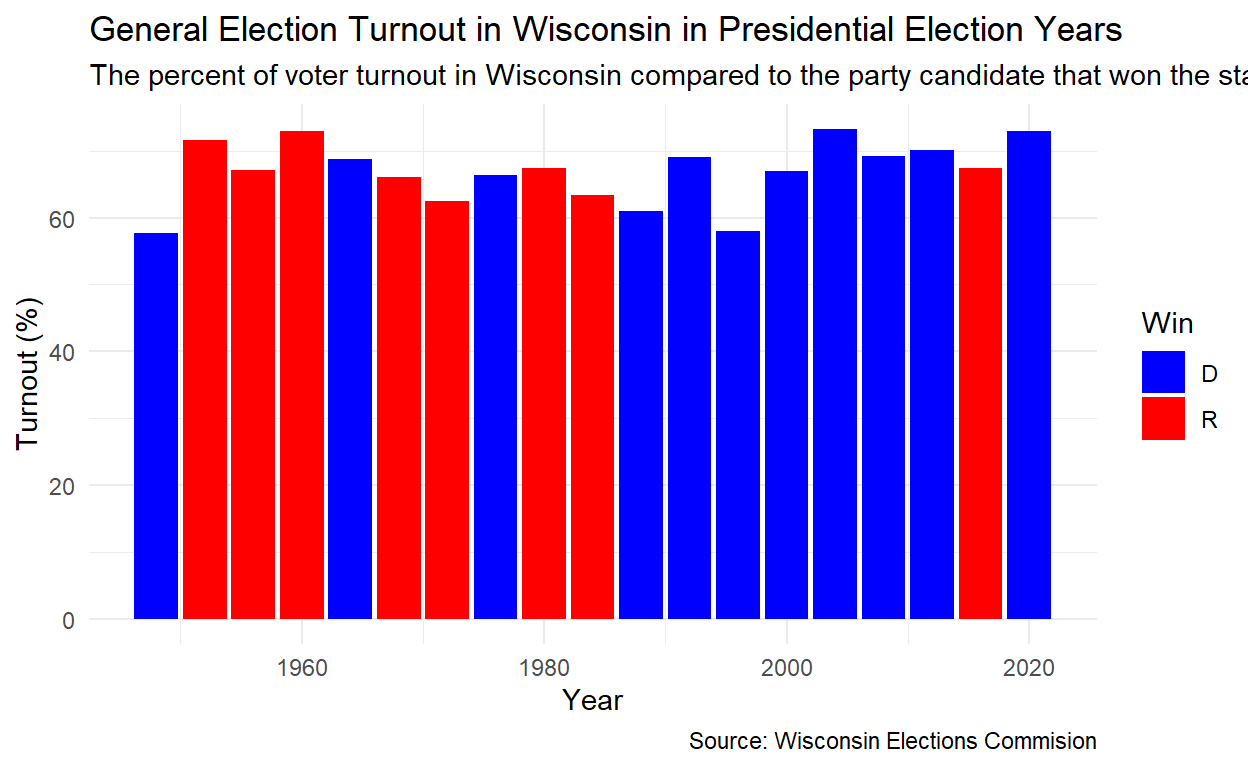
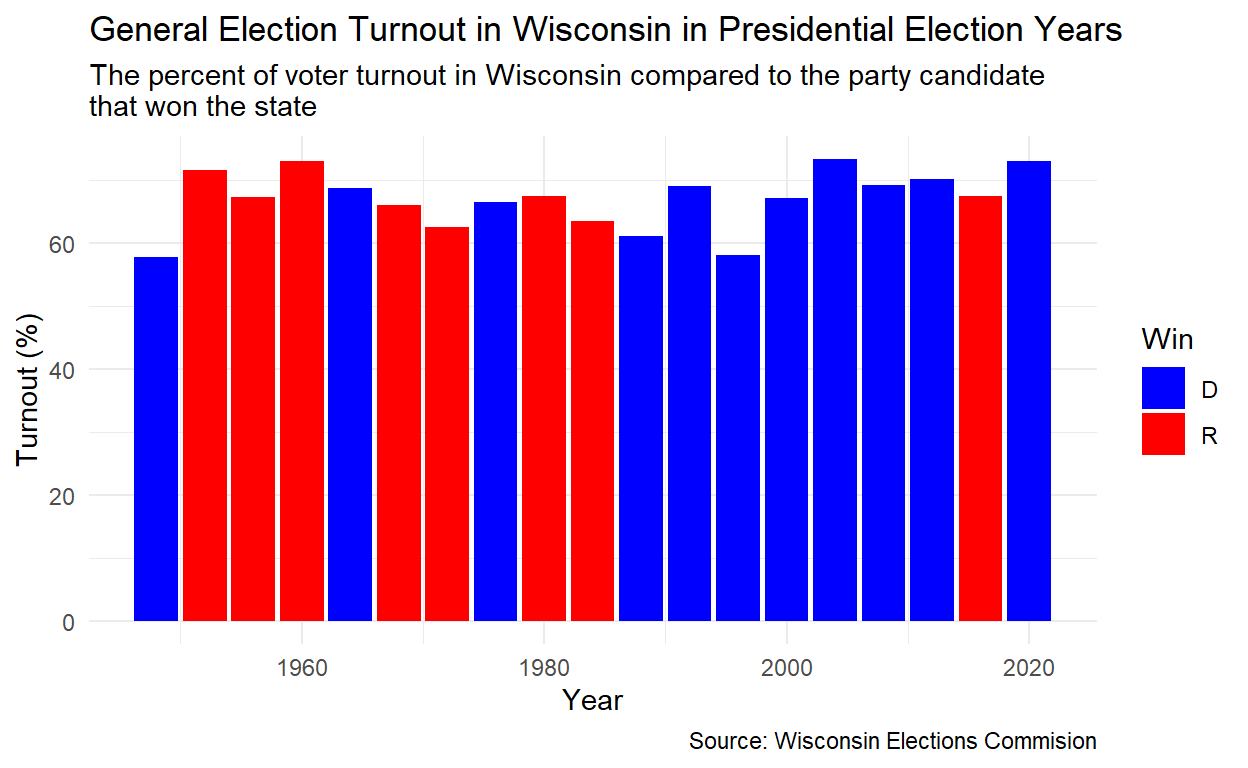
12/10

diff --git a/index.html b/index.html
@@ -115,7 +115,7 @@ code span.wa { color: #5e5e5e; font-style: italic; } /* Warning */
   <!--/radix_placeholder_rmarkdown_metadata-->
   
   <script type="text/json" id="radix-resource-manifest">
-  {"type":"character","attributes":{},"value":["index_files/anchor-4.2.2/anchor.min.js","index_files/bowser-1.9.3/bowser.min.js","index_files/distill-2.2.21/template.v2.js","index_files/figure-html5/unnamed-chunk-1-1.png","index_files/header-attrs-2.17/header-attrs.js","index_files/header-attrs-2.28/header-attrs.js","index_files/jquery-3.6.0/jquery-3.6.0.js","index_files/jquery-3.6.0/jquery-3.6.0.min.js","index_files/jquery-3.6.0/jquery-3.6.0.min.map","index_files/popper-2.6.0/popper.min.js","index_files/tippy-6.2.7/tippy-bundle.umd.min.js","index_files/tippy-6.2.7/tippy-light-border.css","index_files/tippy-6.2.7/tippy.css","index_files/tippy-6.2.7/tippy.umd.min.js","index_files/webcomponents-2.0.0/webcomponents.js","VoteData.csv","WiscVotingData.csv"]}
+  {"type":"character","attributes":{},"value":["index_files/anchor-4.2.2/anchor.min.js","index_files/bowser-1.9.3/bowser.min.js","index_files/distill-2.2.21/template.v2.js","index_files/figure-html5/unnamed-chunk-1-1.png","index_files/figure-html5/unnamed-chunk-2-1.png","index_files/header-attrs-2.17/header-attrs.js","index_files/header-attrs-2.28/header-attrs.js","index_files/jquery-3.6.0/jquery-3.6.0.js","index_files/jquery-3.6.0/jquery-3.6.0.min.js","index_files/jquery-3.6.0/jquery-3.6.0.min.map","index_files/popper-2.6.0/popper.min.js","index_files/tippy-6.2.7/tippy-bundle.umd.min.js","index_files/tippy-6.2.7/tippy-light-border.css","index_files/tippy-6.2.7/tippy.css","index_files/tippy-6.2.7/tippy.umd.min.js","index_files/webcomponents-2.0.0/webcomponents.js","VoteData.csv","WiscVotingData.csv"]}
   </script>
   <!--radix_placeholder_navigation_in_header-->
   <!--/radix_placeholder_navigation_in_header-->
@@ -1543,15 +1543,16 @@ code span.wa { color: #5e5e5e; font-style: italic; } /* Warning */
 </div>
 
 <div class="d-article">
-<h2 id="project-thoughts">Project thoughts</h2>
-<p>I am interested in exploring data related to comparing data in Wisconsin with other bordering states/the rest of the U.S. Maybe something about education or politics, etc.</p>
-<h2 id="research-question-and-outline">Research Question and Outline</h2>
-<p>Research Question: How does voter turnout affect the electoral success of Democratic candidates in Wisconsin state elections?</p>
-<p>Hypothesis: Higher voter turnout is associated with a greater likelihood of Democratic candidates winning elections because traditionally underrepresented groups that lean Democratic, like younger voters, minorities, lower-income people, etc., are more likely to vote in higher-turnout elections. When turnout is low, the electorate tends to skew towards wealthier, older, and more conservative voters, which can favor Republican candidates.</p>
-<p>Independent Variable: Voter turnout measured as the percentage of eligable voters who cast ballots.
-Dependent Variable: Success of Democratic candidates measured as the percentage of the vote received by Democratic candidates/whether they win or lose.</p>
-<p>Data That Would Support Hypothesis: Higher turnouts would be associated with better performance for Democratic candidates.
-Data That Would Disprove Hypothesis: No clear relationship or higher turnout correlating with better performance for Republican candidates.</p>
+<h2 id="introduction">Introduction</h2>
+<p>With the 2024 Presidential Election still fresh on the minds of many, and with it, the statistics behind elections, I wanted to look into what role, if at all, turnout plays in the success of a Presidential candidate in Wisconsin. I chose to examine the success of Democratic candidates, though the same process could be done conversely for Republican candidates or third party candidates as well.</p>
+<p>Research Question: How does voter turnout affect the electoral success of Democratic Presidential candidates in Elections in Wisconsin?</p>
+<p>Hypothesis: Higher voter turnout is associated with greater success of Democratic Presidential candidates winning elections. This is because traditionally underrepresented groups that lean Democratic, like younger voters, minorities, lower-income people, etc., are more likely to vote in higher-turnout elections. When turnout is low, the electorate tends to skew towards wealthier, older, and more conservative voters, which can favor Republican candidates.</p>
+<p>Data That Would Support Hypothesis: Higher turnouts would be associated with better performance for Democratic Presidential candidates.</p>
+<p>Data That Would Disprove Hypothesis: No clear relationship or higher turnout correlating with better performance for Republican Presidential candidates.</p>
+<h2 id="data">Data</h2>
+<p>The following data is taken from the Wisconsin Elections Commission’s voter turnout statistics from 1984 - 2022 (<a href="https://elections.wi.gov/statistics-data/voter-turnout" class="uri">https://elections.wi.gov/statistics-data/voter-turnout</a>).</p>
+<p>Independent Variable: Voter turnout measured as the percentage of eligible voters who cast ballots. This would be classified as a survey.</p>
+<p>Dependent Variable: Success of Democratic Presidential candidates measured as the percentage of the vote received by Democratic candidates/whether they win or lose.</p>
 <div class="layout-chunk" data-layout="l-body">
 <div class="sourceCode">
 <pre class="sourceCode r"><code class="sourceCode r"><span><span class='kw'><a href='https://rdrr.io/r/base/library.html'>library</a></span><span class='op'>(</span><span class='va'><a href='https://tidyverse.tidyverse.org'>tidyverse</a></span><span class='op'>)</span></span>
@@ -1564,20 +1565,25 @@ Data That Would Disprove Hypothesis: No clear relationship or higher turnout cor
 <span>  <span class='fu'>dplyr</span><span class='fu'>::</span><span class='fu'><a href='https://dplyr.tidyverse.org/reference/select.html'>select</a></span><span class='op'>(</span><span class='va'>Year</span>, <span class='va'>`General Election Turnout`</span>, <span class='va'>Win</span><span class='op'>)</span> <span class='op'>|&gt;</span></span>
 <span>  <span class='fu'><a href='https://dplyr.tidyverse.org/reference/mutate.html'>mutate</a></span><span class='op'>(</span>`General Election Turnout` <span class='op'>=</span> <span class='fu'><a href='https://rdrr.io/r/base/numeric.html'>as.numeric</a></span><span class='op'>(</span><span class='fu'><a href='https://rdrr.io/r/base/grep.html'>gsub</a></span><span class='op'>(</span><span class='st'>"%"</span>, <span class='st'>""</span>, <span class='va'>`General Election Turnout`</span><span class='op'>)</span><span class='op'>)</span><span class='op'>)</span></span>
 <span></span>
-<span><span class='fu'><a href='https://ggplot2.tidyverse.org/reference/ggplot.html'>ggplot</a></span><span class='op'>(</span><span class='va'>data</span>, <span class='fu'><a href='https://ggplot2.tidyverse.org/reference/aes.html'>aes</a></span><span class='op'>(</span>x <span class='op'>=</span> <span class='va'>Year</span>, y <span class='op'>=</span> <span class='va'>`General Election Turnout`</span>, fill <span class='op'>=</span> <span class='va'>Win</span><span class='op'>)</span><span class='op'>)</span> <span class='op'>+</span></span>
+<span><span class='va'>graph1</span> <span class='op'>&lt;-</span> <span class='fu'><a href='https://ggplot2.tidyverse.org/reference/ggplot.html'>ggplot</a></span><span class='op'>(</span><span class='va'>data</span>, <span class='fu'><a href='https://ggplot2.tidyverse.org/reference/aes.html'>aes</a></span><span class='op'>(</span>x <span class='op'>=</span> <span class='va'>Year</span>, y <span class='op'>=</span> <span class='va'>`General Election Turnout`</span>, fill <span class='op'>=</span> <span class='va'>Win</span><span class='op'>)</span><span class='op'>)</span> <span class='op'>+</span></span>
 <span>  <span class='fu'><a href='https://ggplot2.tidyverse.org/reference/geom_bar.html'>geom_bar</a></span><span class='op'>(</span>stat <span class='op'>=</span> <span class='st'>"identity"</span><span class='op'>)</span> <span class='op'>+</span></span>
 <span>  <span class='fu'><a href='https://ggplot2.tidyverse.org/reference/labs.html'>labs</a></span><span class='op'>(</span></span>
 <span>    title <span class='op'>=</span> <span class='st'>"General Election Turnout in Wisconsin in Presidential Election Years"</span>,</span>
-<span>    subtitle  <span class='op'>=</span> <span class='st'>"The percent of voter turnout in Wisconsin compared to the party candidate that won the state"</span>,</span>
+<span>    subtitle  <span class='op'>=</span> <span class='st'>"The percent of voter turnout in Wisconsin compared to the party candidate </span></span>
+<span><span class='st'>that won the state"</span>,</span>
 <span>    x <span class='op'>=</span> <span class='st'>"Year"</span>,</span>
 <span>    y <span class='op'>=</span> <span class='st'>"Turnout (%)"</span>,</span>
 <span>    caption <span class='op'>=</span> <span class='st'>"Source: Wisconsin Elections Commision"</span></span>
 <span>  <span class='op'>)</span> <span class='op'>+</span></span>
 <span>  <span class='fu'><a href='https://ggplot2.tidyverse.org/reference/scale_manual.html'>scale_fill_manual</a></span><span class='op'>(</span>values <span class='op'>=</span> <span class='fu'><a href='https://rdrr.io/r/base/c.html'>c</a></span><span class='op'>(</span><span class='st'>"D"</span> <span class='op'>=</span> <span class='st'>"blue"</span>, <span class='st'>"R"</span> <span class='op'>=</span> <span class='st'>"red"</span><span class='op'>)</span><span class='op'>)</span> <span class='op'>+</span></span>
-<span>  <span class='fu'><a href='https://ggplot2.tidyverse.org/reference/ggtheme.html'>theme_minimal</a></span><span class='op'>(</span><span class='op'>)</span></span></code></pre>
+<span>  <span class='fu'><a href='https://ggplot2.tidyverse.org/reference/ggtheme.html'>theme_minimal</a></span><span class='op'>(</span><span class='op'>)</span></span>
+<span></span>
+<span><span class='fu'><a href='https://rdrr.io/r/base/print.html'>print</a></span> <span class='op'>(</span><span class='va'>graph1</span><span class='op'>)</span></span></code></pre>
 </div>
 <p><img src="index_files/figure-html5/unnamed-chunk-1-1.png" width="624" /></p>
 </div>
+<h2 id="results">Results</h2>
+<p>The following results use a slightly different data source from Dave Leip’s Atlas of U.S. Presidential Elections examining the percentage of Democratic vote share for either major party candidate in the state and the winner of Wisconsin’s electoral votes. (<a href="https://uselectionatlas.org/RESULTS/compare.php?year=2008&amp;fips=55&amp;f=1&amp;off=0&amp;elect=0&amp;type=state" class="uri">https://uselectionatlas.org/RESULTS/compare.php?year=2008&amp;fips=55&amp;f=1&amp;off=0&amp;elect=0&amp;type=state</a>).</p>
 <div class="layout-chunk" data-layout="l-body">
 <div class="sourceCode">
 <pre class="sourceCode r"><code class="sourceCode r"><span><span class='kw'><a href='https://rdrr.io/r/base/library.html'>library</a></span><span class='op'>(</span><span class='va'><a href='https://tidyverse.tidyverse.org'>tidyverse</a></span><span class='op'>)</span></span>
@@ -1610,45 +1616,35 @@ Data That Would Disprove Hypothesis: No clear relationship or higher turnout cor
 <span>    col.names <span class='op'>=</span> <span class='fu'><a href='https://rdrr.io/r/base/c.html'>c</a></span><span class='op'>(</span><span class='st'>"Term"</span>, <span class='st'>"Estimate"</span>, <span class='st'>"Std. Error"</span>, <span class='st'>"t value"</span>, <span class='st'>"P value"</span><span class='op'>)</span>,</span>
 <span>    caption <span class='op'>=</span> <span class='st'>"Regression Analysis of Voter Turnout on Democratic Vote Share"</span>  <span class='op'>)</span></span>
 <span></span>
-<span><span class='va'>regression_table</span></span></code></pre>
+<span><span class='va'>graph2</span> <span class='op'>&lt;-</span> <span class='fu'><a href='https://ggplot2.tidyverse.org/reference/ggplot.html'>ggplot</a></span><span class='op'>(</span><span class='va'>combined_data</span>, <span class='fu'><a href='https://ggplot2.tidyverse.org/reference/aes.html'>aes</a></span><span class='op'>(</span>x <span class='op'>=</span> <span class='va'>`General Election Turnout`</span>, y <span class='op'>=</span> <span class='va'>`Dem Perc`</span><span class='op'>)</span><span class='op'>)</span> <span class='op'>+</span></span>
+<span>  <span class='fu'><a href='https://ggplot2.tidyverse.org/reference/geom_point.html'>geom_point</a></span><span class='op'>(</span>color <span class='op'>=</span> <span class='st'>"blue"</span><span class='op'>)</span> <span class='op'>+</span></span>
+<span>  <span class='fu'><a href='https://ggplot2.tidyverse.org/reference/geom_smooth.html'>geom_smooth</a></span><span class='op'>(</span>method <span class='op'>=</span> <span class='st'>"lm"</span>, color <span class='op'>=</span> <span class='st'>"red"</span>, se <span class='op'>=</span> <span class='cn'>TRUE</span><span class='op'>)</span> <span class='op'>+</span></span>
+<span>  <span class='fu'><a href='https://ggplot2.tidyverse.org/reference/labs.html'>labs</a></span><span class='op'>(</span></span>
+<span>    title <span class='op'>=</span> <span class='st'>"Scatter Plot with Regression Line"</span>,</span>
+<span>    x <span class='op'>=</span> <span class='st'>"General Election Turnout (%)"</span>,</span>
+<span>    y <span class='op'>=</span> <span class='st'>"Democratic Vote Share (%)"</span><span class='op'>)</span></span>
+<span><span class='fu'><a href='https://rdrr.io/r/base/print.html'>print</a></span><span class='op'>(</span><span class='va'>regression_table</span><span class='op'>)</span></span></code></pre>
 </div>
-<table>
-<caption><span id="tab:unnamed-chunk-2">Table 1: </span>Regression Analysis of Voter Turnout on Democratic Vote Share</caption>
-<colgroup>
-<col style="width: 38%" />
-<col style="width: 15%" />
-<col style="width: 15%" />
-<col style="width: 15%" />
-<col style="width: 14%" />
-</colgroup>
-<thead>
-<tr class="header">
-<th style="text-align: left;">Term</th>
-<th style="text-align: right;">Estimate</th>
-<th style="text-align: right;">Std. Error</th>
-<th style="text-align: right;">t value</th>
-<th style="text-align: right;">P value</th>
-</tr>
-</thead>
-<tbody>
-<tr class="odd">
-<td style="text-align: left;">(Intercept)</td>
-<td style="text-align: right;">48.3433396</td>
-<td style="text-align: right;">20.4663942</td>
-<td style="text-align: right;">2.3620839</td>
-<td style="text-align: right;">0.0303629</td>
-</tr>
-<tr class="even">
-<td style="text-align: left;"><code>General Election Turnout</code></td>
-<td style="text-align: right;">-0.0091334</td>
-<td style="text-align: right;">0.3051197</td>
-<td style="text-align: right;">-0.0299337</td>
-<td style="text-align: right;">0.9764685</td>
-</tr>
-</tbody>
-</table>
+<pre><code>
+
+Table: (\#tab:unnamed-chunk-2)Regression Analysis of Voter Turnout on Democratic Vote Share
+
+|Term                       |   Estimate| Std. Error|    t value|   P value|
+|:--------------------------|----------:|----------:|----------:|---------:|
+|(Intercept)                | 48.3433396| 20.4663942|  2.3620839| 0.0303629|
+|`General Election Turnout` | -0.0091334|  0.3051197| -0.0299337| 0.9764685|</code></pre>
+<div class="sourceCode">
+<pre class="sourceCode r"><code class="sourceCode r"><span><span class='fu'><a href='https://rdrr.io/r/base/print.html'>print</a></span> <span class='op'>(</span><span class='va'>graph2</span><span class='op'>)</span></span></code></pre>
 </div>
-<div class="sourceCode" id="cb1"><pre class="sourceCode r distill-force-highlighting-css"><code class="sourceCode r"></code></pre></div>
+<p><img src="index_files/figure-html5/unnamed-chunk-2-1.png" width="624" /></p>
+</div>
+<p>The scatter plot and regression analysis do not show any significant relationship between voter turnout and the Democratic vote share in Wisconsin Presidential elections.</p>
+<p>The scatterplot shows the relationship between the General Election Turnout on the x-axis and Democratic Vote Share on the y-axis. The red regression line, being flat, shows a highly minimal or no relationship between voter turnout and Democratic vote share and in turn Democratic Presidential candidate success.</p>
+<p>The regression coefficient for turnout is about -0.0091, indicating a slight negative association, though negligible. This means that with every 1% increase in voter turnout, the Democratic vote share actually decreased by about 0.0091 percentage points.</p>
+<p>Paired with a high P-value of about 0.976, which is much larger than a typical threshold of 0.05, the turnout is statistically insignificant. This means that the hypothesis that a higher turnout improves turnout for Democratic Presidential candidates’ success cannot be supported.</p>
+<h2 id="conclusion">Conclusion</h2>
+<p>Overall, the data does not support the hypothesis that a higher voter turnout improves the success of Democratic Presidential candidates, however limitations most likely played a factor as well. Confounding factors like demographic shifts or campaign strategies in the state can play a role. Additionally, the sample size can certainly be improved upon. With more time or resources, improvements could be made by incorporating demographic data, taking a look a county-level patterns, and expanding the data set to include more states and more election years.</p>
+<div class="sourceCode" id="cb2"><pre class="sourceCode r distill-force-highlighting-css"><code class="sourceCode r"></code></pre></div>
 <!--radix_placeholder_article_footer-->
 <!--/radix_placeholder_article_footer-->
 </div>
